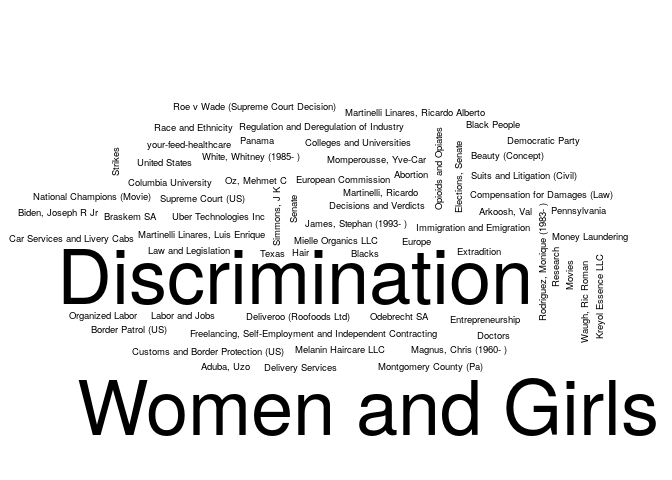
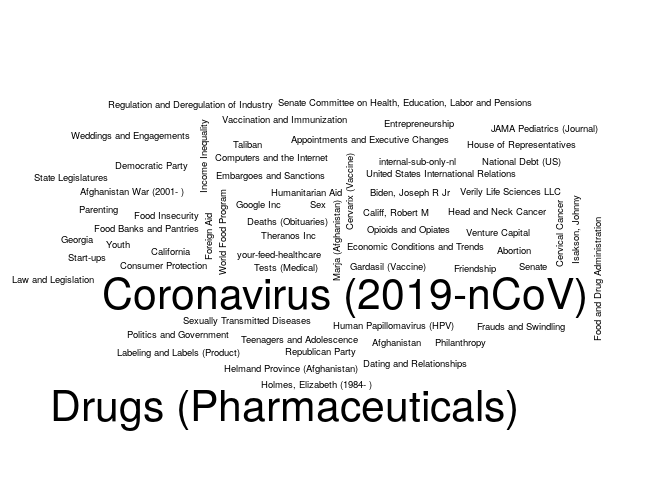
Updating the NYT report

Changed region(s): [[0.0, 0.1875, 1.0, 0.9062]]

diff --git a/03-nytimes/README.md b/03-nytimes/README.md
@@ -5,7 +5,7 @@ The following is an example of how to use the [NYTimes
 API](https://developer.nytimes.com/) to get a list of articles related
 to a particular term. Here we are searching articles that include the
 term `"health"`, and that were published up to seven days ago since
-2021-12-13.
+2021-12-20.
 
 ``` r
 # Preparing a function to use the GET method with the NYTimes API
@@ -85,23 +85,23 @@ knitr::kable(tab, row.names = FALSE)
 
 | Keyword                               | \# Articles |
 |:--------------------------------------|------------:|
-| Discrimination                        |          20 |
-| Politics and Government               |          20 |
-| United States Politics and Government |          20 |
-| Wages and Salaries                    |          20 |
-| Women and Girls                       |          20 |
+| United States Politics and Government |          30 |
+| Coronavirus (2019-nCoV)               |          20 |
+| Drugs (Pharmaceuticals)               |          20 |
 | Abortion                              |          10 |
-| Aduba, Uzo                            |          10 |
-| Arkoosh, Val                          |          10 |
-| Beauty (Concept)                      |          10 |
+| Afghanistan                           |          10 |
+| Afghanistan War (2001- )              |          10 |
+| Appointments and Executive Changes    |          10 |
 | Biden, Joseph R Jr                    |          10 |
-| Black People                          |          10 |
-| Blacks                                |          10 |
-| Border Patrol (US)                    |          10 |
-| Braskem SA                            |          10 |
-| Car Services and Livery Cabs          |          10 |
-| Colleges and Universities             |          10 |
-| Columbia University                   |          10 |
-| Compensation for Damages (Law)        |          10 |
-| Customs and Border Protection (US)    |          10 |
-| Decisions and Verdicts                |          10 |
+| Califf, Robert M                      |          10 |
+| California                            |          10 |
+| Cervarix (Vaccine)                    |          10 |
+| Cervical Cancer                       |          10 |
+| Computers and the Internet            |          10 |
+| Consumer Protection                   |          10 |
+| Dating and Relationships              |          10 |
+| Deaths (Obituaries)                   |          10 |
+| Democratic Party                      |          10 |
+| Economic Conditions and Trends        |          10 |
+| Embargoes and Sanctions               |          10 |
+| Entrepreneurship                      |          10 |
